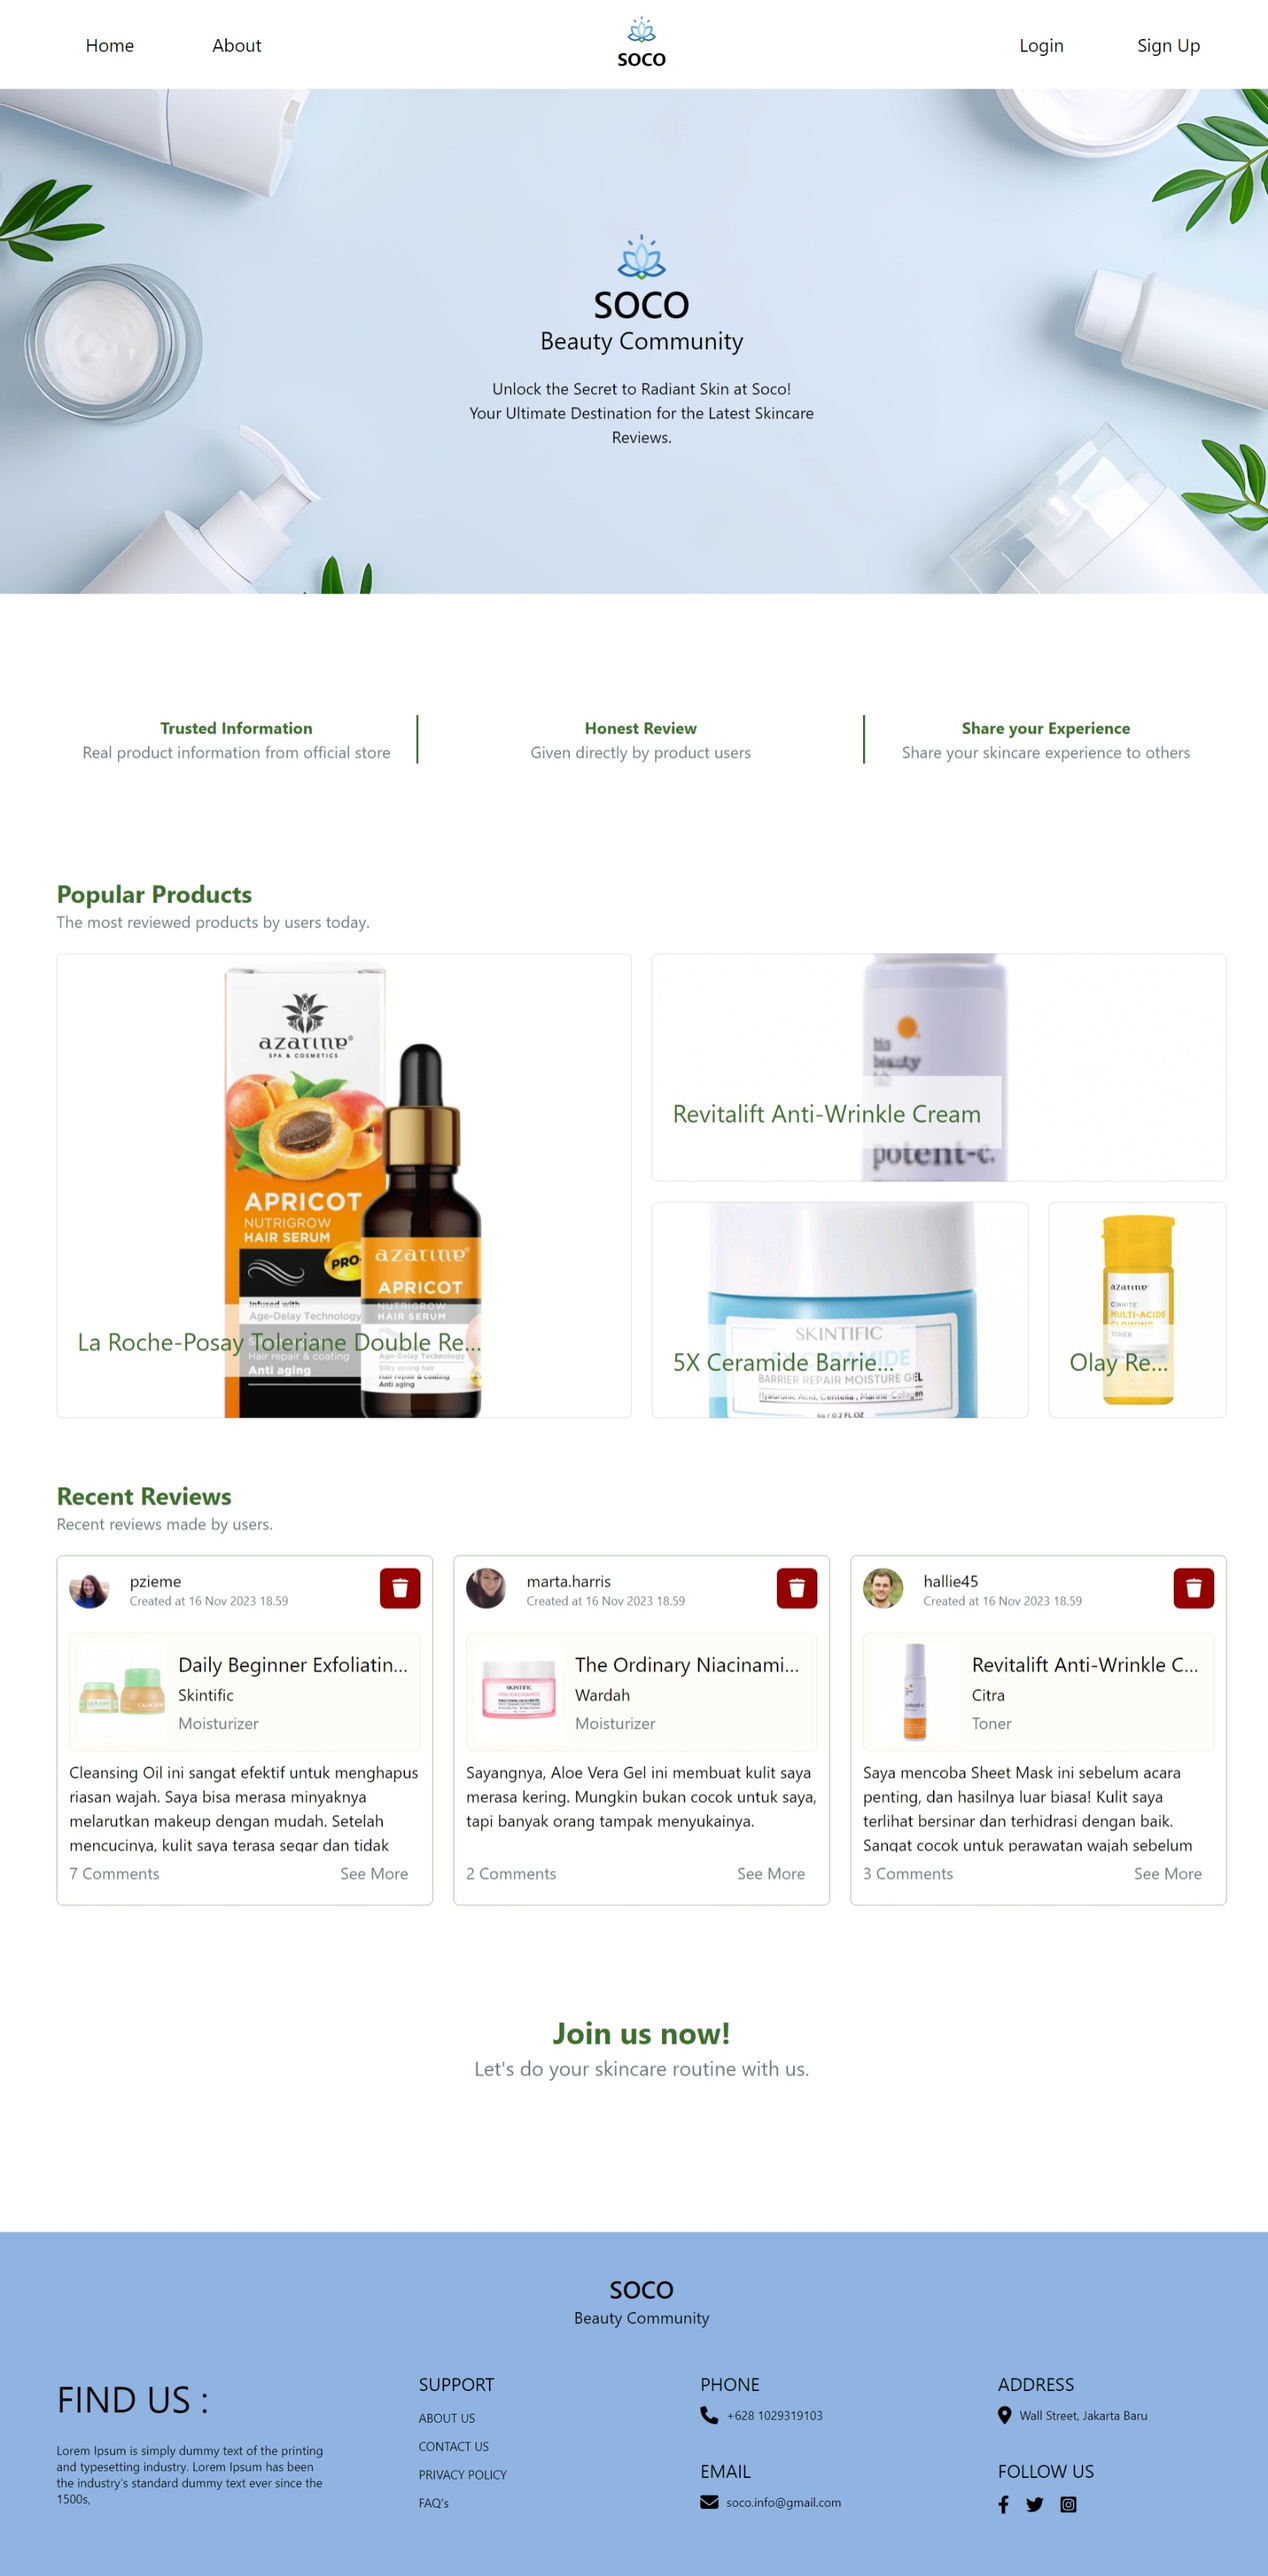
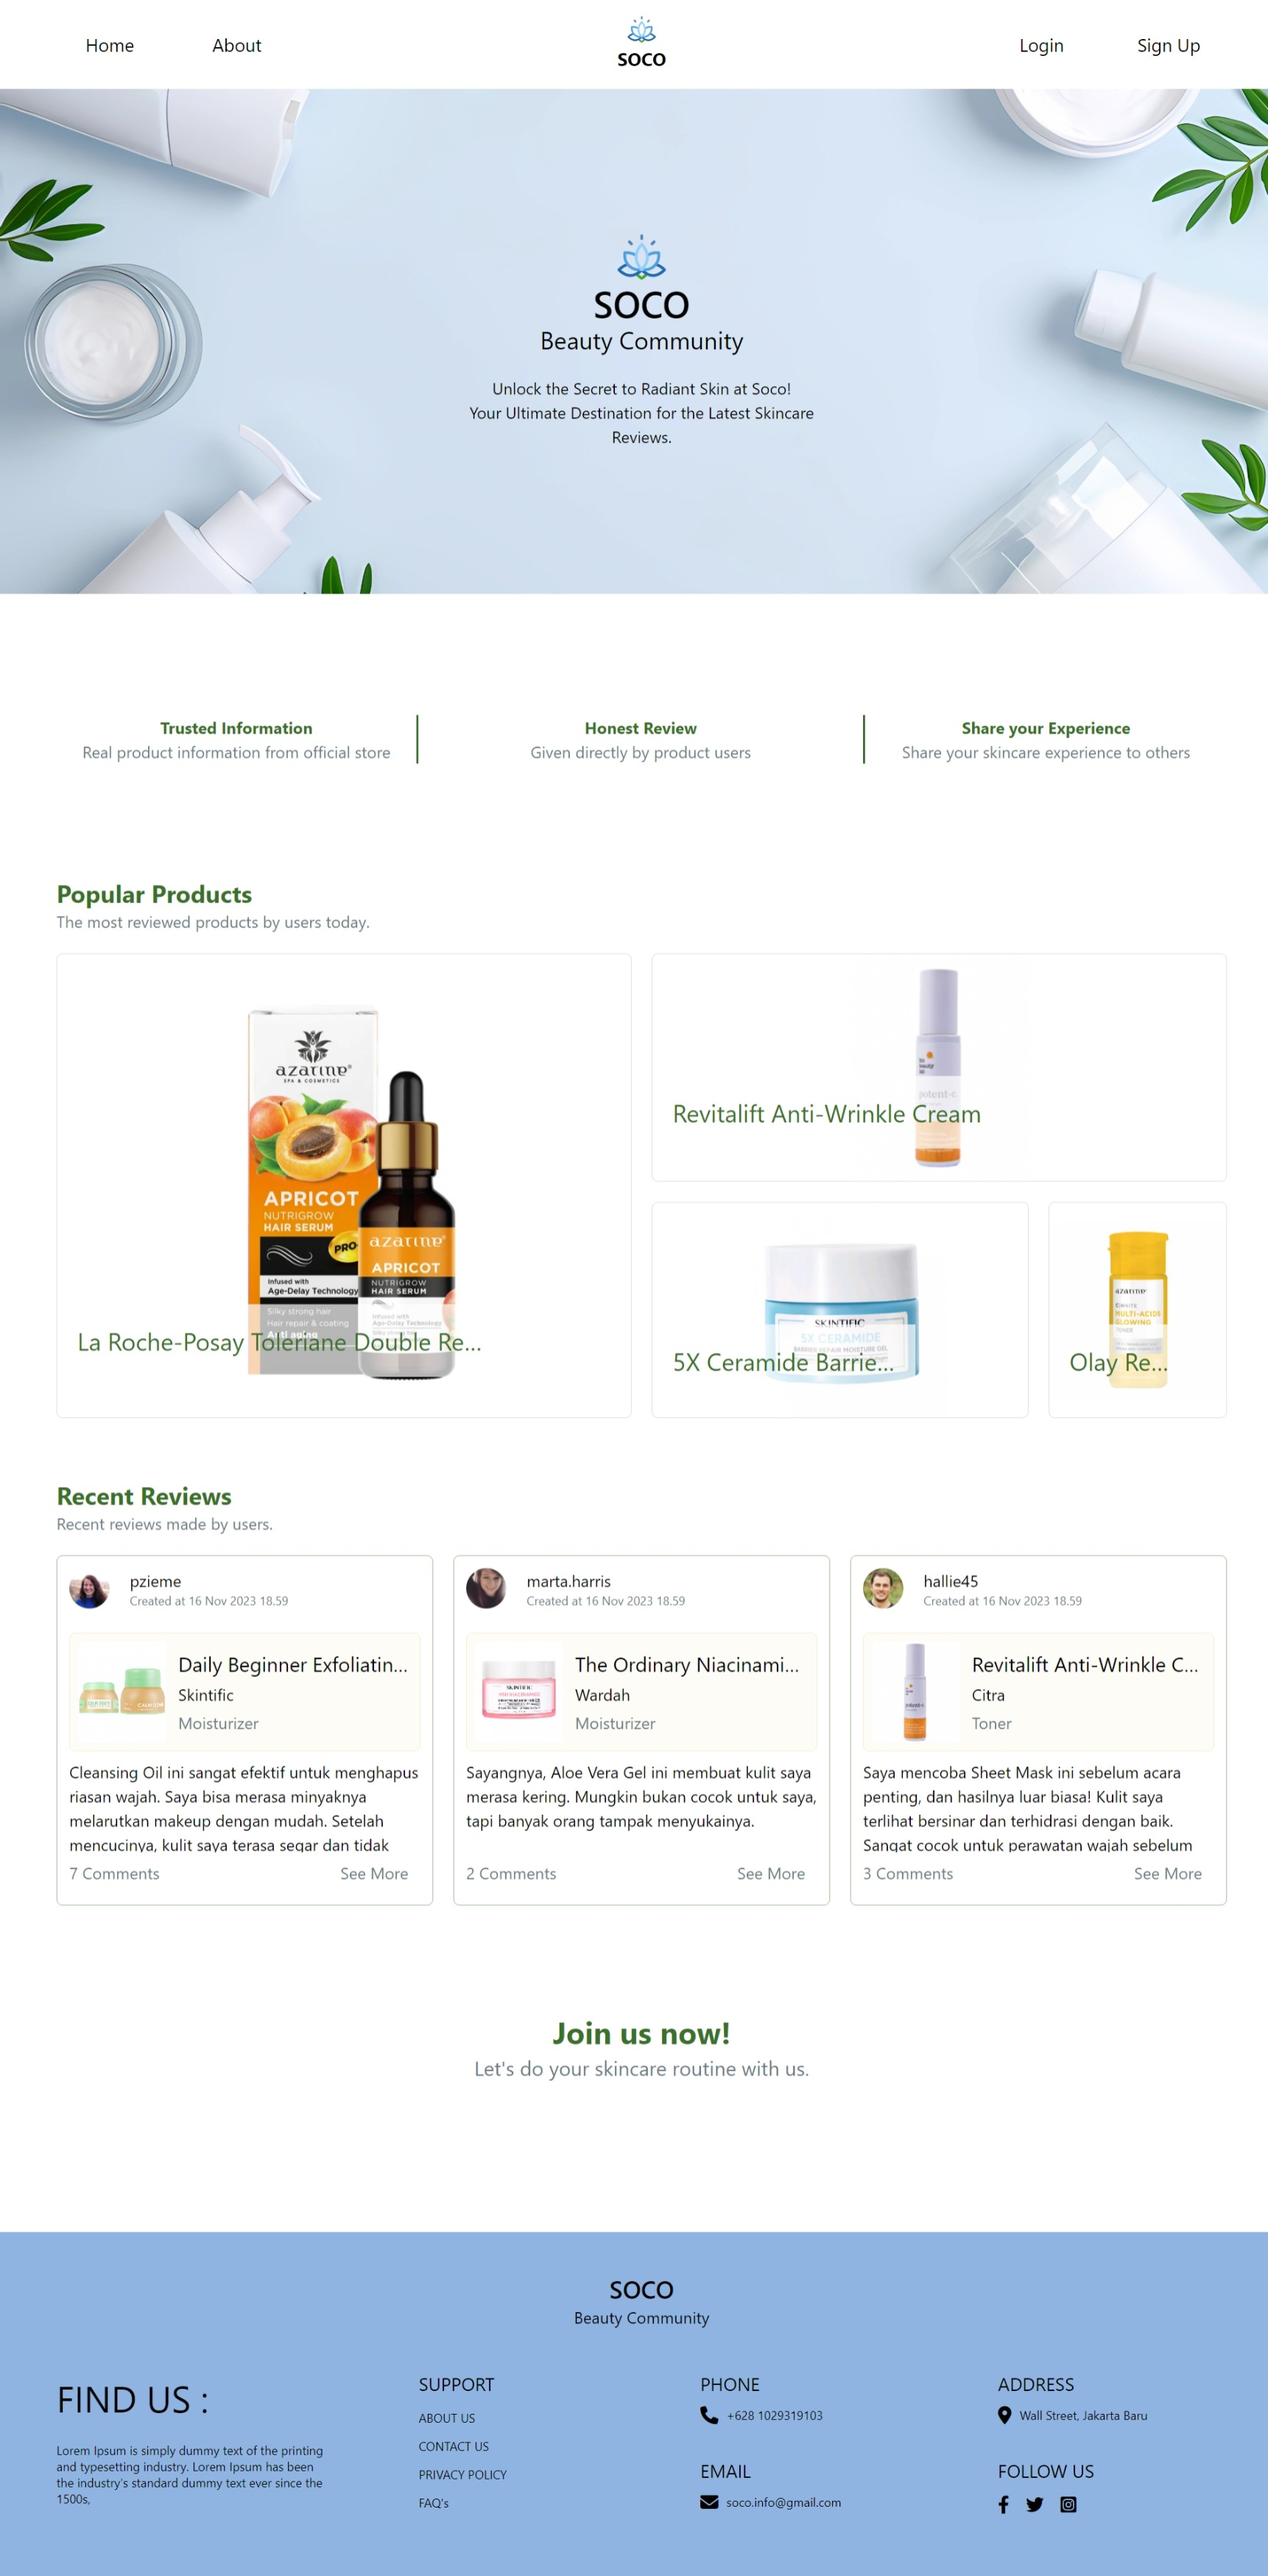
fix: sign up & landing

diff --git a/resources/views/landing.blade.php b/resources/views/landing.blade.php
@@ -52,7 +52,7 @@
         <div class="grid grid-cols-6 gap-5 h-[500px] py-5">
             <a href="{{ route('user.skincares.details', $produks[0]['id']) }}"
                 style="background-image: url('{{ asset('assets/skincares/' . $produks[0]['gambar']) }}')"
-                class="bg-slate-500 row-span-2 col-span-3 bg-cover bg-center flex items-end hover:brightness-95 border border-light-slate-grey border-opacity-25 rounded-md">
+                class="bg-white row-span-2 col-span-3 bg-contain bg-no-repeat bg-center flex items-end hover:brightness-95 border border-light-slate-grey border-opacity-25 rounded-md">
 
                 <div class="bg-white bg-opacity-70 w-fit max-w-[80%] p-5 mb-10">
                     <p class="text-medium-forest-green text-2xl truncate">{{ $produks[0]['nama_produk'] }}</p>
@@ -62,7 +62,7 @@
 
             <a href="{{ route('user.skincares.details', $produks[1]['id']) }}"
                 style="background-image: url('{{ asset('assets/skincares/' . $produks[1]['gambar']) }}')"
-                class="bg-slate-500 col-span-3 bg-cover bg-center flex items-end hover:brightness-95 border border-light-slate-grey border-opacity-25 rounded-md">
+                class="bg-white col-span-3 bg-contain bg-no-repeat bg-center flex items-end hover:brightness-95 border border-light-slate-grey border-opacity-25 rounded-md">
                 <div class="bg-white bg-opacity-70 w-fit max-w-[70%] p-5 mb-8">
                     <p class="text-medium-forest-green text-2xl truncate">{{ $produks[1]['nama_produk'] }}</p>
                 </div>
@@ -70,7 +70,7 @@
 
             <a href="{{ route('user.skincares.details', $produks[2]['id']) }}"
                 style="background-image: url('{{ asset('assets/skincares/' . $produks[2]['gambar']) }}')"
-                class="bg-slate-500 col-span-2 bg-cover bg-center flex items-end hover:brightness-95 border border-light-slate-grey border-opacity-25 rounded-md">
+                class="bg-white col-span-2 bg-contain bg-no-repeat bg-center flex items-end hover:brightness-95 border border-light-slate-grey border-opacity-25 rounded-md">
                 <div class="bg-white bg-opacity-70 w-fit max-w-[70%] mb-5 p-5">
                     <p class="text-medium-forest-green text-2xl truncate">{{ $produks[2]['nama_produk'] }}</p>
                 </div>
@@ -78,7 +78,7 @@
 
             <a href="{{ route('user.skincares.details', $produks[3]['id']) }}"
                 style="background-image: url('{{ asset('assets/skincares/' . $produks[3]['gambar']) }}')"
-                class="bg-slate-500 bg-cover bg-center flex items-end hover:brightness-95 border border-light-slate-grey border-opacity-25 rounded-md">
+                class="bg-white bg-contain bg-no-repeat bg-center flex items-end hover:brightness-95 border border-light-slate-grey border-opacity-25 rounded-md">
                 <div class="bg-white bg-opacity-70 w-fit max-w-[80%] mb-5 p-5">
                     <p class="text-medium-forest-green text-2xl truncate">{{ $produks[3]['nama_produk'] }}</p>
                 </div>

diff --git a/app/Http/Controllers/API/ApiController.php b/app/Http/Controllers/API/ApiController.php
@@ -15,6 +15,7 @@ class ApiController extends Controller
     // dapatkan data semua review
     public function getReviews()
     {
+        // urutkan review dari yang terbaru
         $reviews = Review::orderBy("created_at", "desc")->with([
             "user" => function ($query) {
                 $query->select("id", "username", "gambar");
@@ -67,6 +68,7 @@ class ApiController extends Controller
             ->orWhere("jenis", "=", "$request->search")
             ->get();
 
+        // cari review terkait
         $reviews = Review::with([
             "user" => function ($query) {
                 $query->select("id", "username", "gambar");
@@ -132,6 +134,7 @@ class ApiController extends Controller
                         }
                     ]);
                 }
+                // hanya ambil komentar terkait dengan data review yang diambil
             ])->where("id", "=", $idReview)
             ->get();
 
@@ -150,6 +153,7 @@ class ApiController extends Controller
             ->orWhere("jenis", "=", "$request->search")
             ->get();
 
+        // jika sedang mencari produk berdasarkan category
         if (!empty($request->category)) {
             $produks = Produk::orderBy("created_at", "desc")
                 ->orWhere("jenis", "=", $request->category == "facial-wash" ? "facial wash" : $request->category)
@@ -172,6 +176,7 @@ class ApiController extends Controller
         return response()->json($response);
     }
 
+    // ambil data user tertentu berdasarkan username
     public function getUser($username)
     {
         $user = User::with([

diff --git a/resources/views/components/footer.blade.php b/resources/views/components/footer.blade.php
@@ -30,10 +30,10 @@
             <li>
                 <div class="flex flex-col px-16 gap-3">
                     <h3 class="text-lg uppercase font-oswald">SUPPORT</h3>
-                    <a href="" class="text-xs hover:bg-white">ABOUT US</a>
-                    <a href="" class="text-xs  hover:bg-white">CONTACT US</a>
-                    <a href="" class="text-xs hover:bg-white">PRIVACY POLICY</a>
-                    <a href="" class="text-xs  hover:bg-white">FAQ's</a>
+                    <a href="" class="text-xs hover:bg-white hover:bg-opacity-20">ABOUT US</a>
+                    <a href="" class="text-xs  hover:bg-white hover:bg-opacity-20">CONTACT US</a>
+                    <a href="" class="text-xs hover:bg-white hover:bg-opacity-20">PRIVACY POLICY</a>
+                    <a href="" class="text-xs  hover:bg-white hover:bg-opacity-20">FAQ's</a>
                 </div>
             </li>
 
@@ -72,11 +72,11 @@
                 <div class="space-y-2 px-12">
                     <h3 class="text-lg uppercase font-oswald">follow us</h3>
 
-                   <div class="space-x-3">
+                    <div class="space-x-3">
                         <i class="fa-brands fa-facebook-f text-lg cursor-pointer"></i>
                         <i class="fa-brands fa-twitter text-lg cursor-pointer"></i>
                         <i class="fa-brands fa-square-instagram text-lg cursor-pointer"></i>
-                   </div>
+                    </div>
                 </div>
 
 

diff --git a/app/Http/Controllers/ReviewController.php b/app/Http/Controllers/ReviewController.php
@@ -5,6 +5,7 @@ namespace App\Http\Controllers;
 use App\Models\Produk;
 use App\Models\Review;
 use App\Models\Komentar;
+use App\Models\User;
 use Illuminate\Http\Request;
 use Illuminate\Support\Facades\Auth;
 use Illuminate\Support\Facades\Http;
@@ -70,11 +71,12 @@ class ReviewController extends Controller
         ]);
     }
 
-    public function showAll(){
+    public function showAll()
+    {
         return view('admin/review', [
-                    "review" => Review::all(),
-                    "title" => "Review"
-                ]);
+            "review" => Review::all(),
+            "title" => "Review"
+        ]);
     }
 
     public function show($id)
@@ -129,7 +131,7 @@ class ReviewController extends Controller
 
     public function showDetail($id)
     {
-        return view('admin.admindetailreview',[
+        return view('admin.admindetailreview', [
             "title" => "Detail Review",
             'review' => Review::all()->where('id', $id)->first(),
             'komentar' => Komentar::all()->where('review_id', $id),
@@ -139,5 +141,4 @@ class ReviewController extends Controller
 
         // return redirect()->route("admindetailreview", ['id' => $reviewID, 'title' => 'Detail Review'])->with("success");
     }
-
 }

diff --git a/resources/views/auth/sign-up.blade.php b/resources/views/auth/sign-up.blade.php
@@ -30,13 +30,10 @@
                     ])
                 @endif
 
-                <div class="flex flex-col items-center justify-center mb-4 mt-12">
-                    <div
-                        class="rounded-full bg-cyan-blue bg-opacity-30 w-20 h-20 text-2xl flex justify-center items-center">
-                        +
-                    </div>
-                    <input type="file" name="gambar" id="gambar" class="w-full" required
-                        accept="image/png, image/jpeg">
+                <div class=" mb-4 mt-12">
+                    <label for="gambar" class="font-bold"> Photo </label>
+                    <input type="file" name="gambar" id="gambar" required accept="image/png, image/jpeg"
+                        class="outline-0 rounded-md mt-2 px-3 py-2 w-full bg-transparent ring-1 ring-light-slate-grey focus:ring-2 focus:ring-cyan-blue">
                 </div>
 
                 <div class="mb-4">

diff --git a/app/Http/Controllers/UserController.php b/app/Http/Controllers/UserController.php
@@ -39,7 +39,8 @@ class UserController extends Controller
         ]);
     }
 
-    public function showAll(){
+    public function showAll()
+    {
         return view('admin/account', [
             "account" => User::all(),
             "title" => "Account"
@@ -68,6 +69,7 @@ class UserController extends Controller
             return redirect(route("user.profile.edit"))->with("error", "Username is already in use.");
         }
 
+        // ambil nama gambar lama
         $namaGambar = Auth::user()->gambar;
 
         // kalau user berhasil mengupload gambar

diff --git a/resources/views/user/detail-review.blade.php b/resources/views/user/detail-review.blade.php
@@ -81,6 +81,7 @@
                         <p>{{ $komentar['isi'] }}</p>
                     </div>
 
+                    {{-- tombol delete komentar --}}
                     @if ($komentar['user_id'] == Auth::user()->id || Auth::user()->admin)
                         <a href="{{ route('user.comments.delete.action', [
                             'idReview' => $review['id'],
@@ -94,8 +95,6 @@
                     @endif
                 </div>
             @endforeach
-
-
 
         </div>
 
